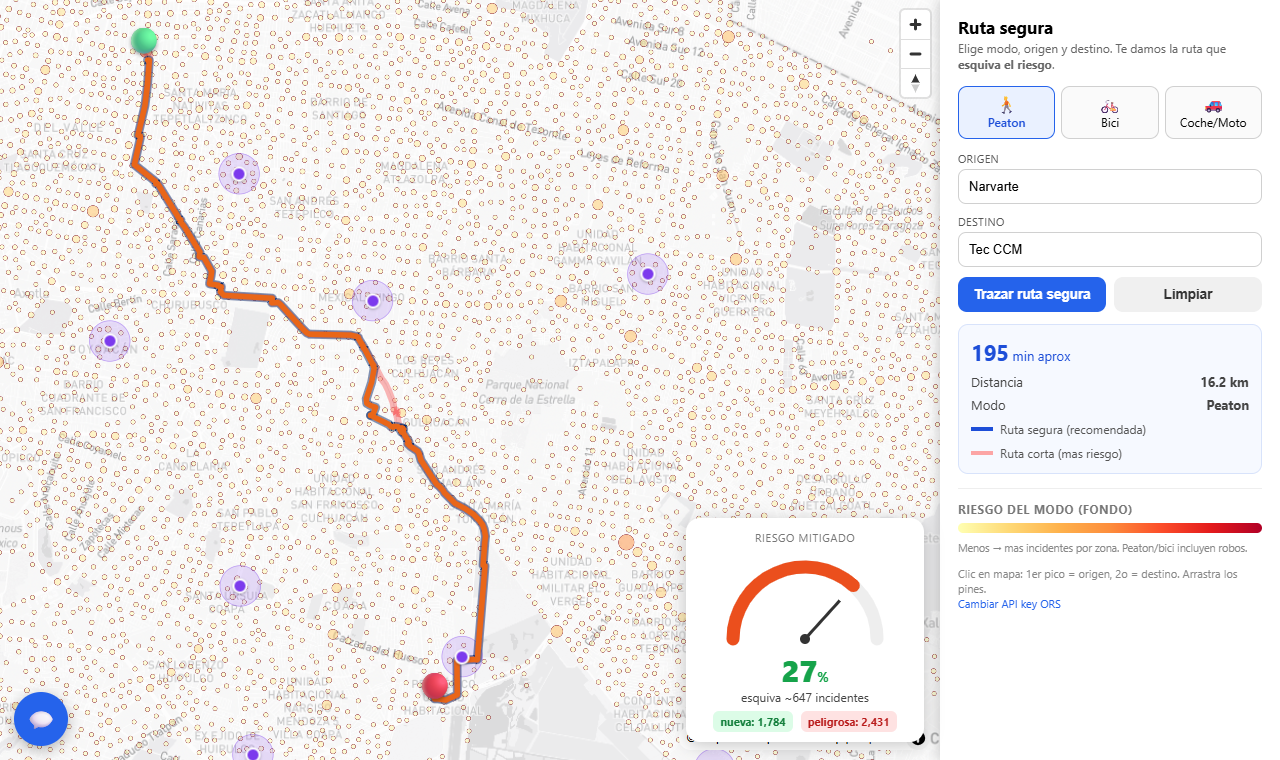
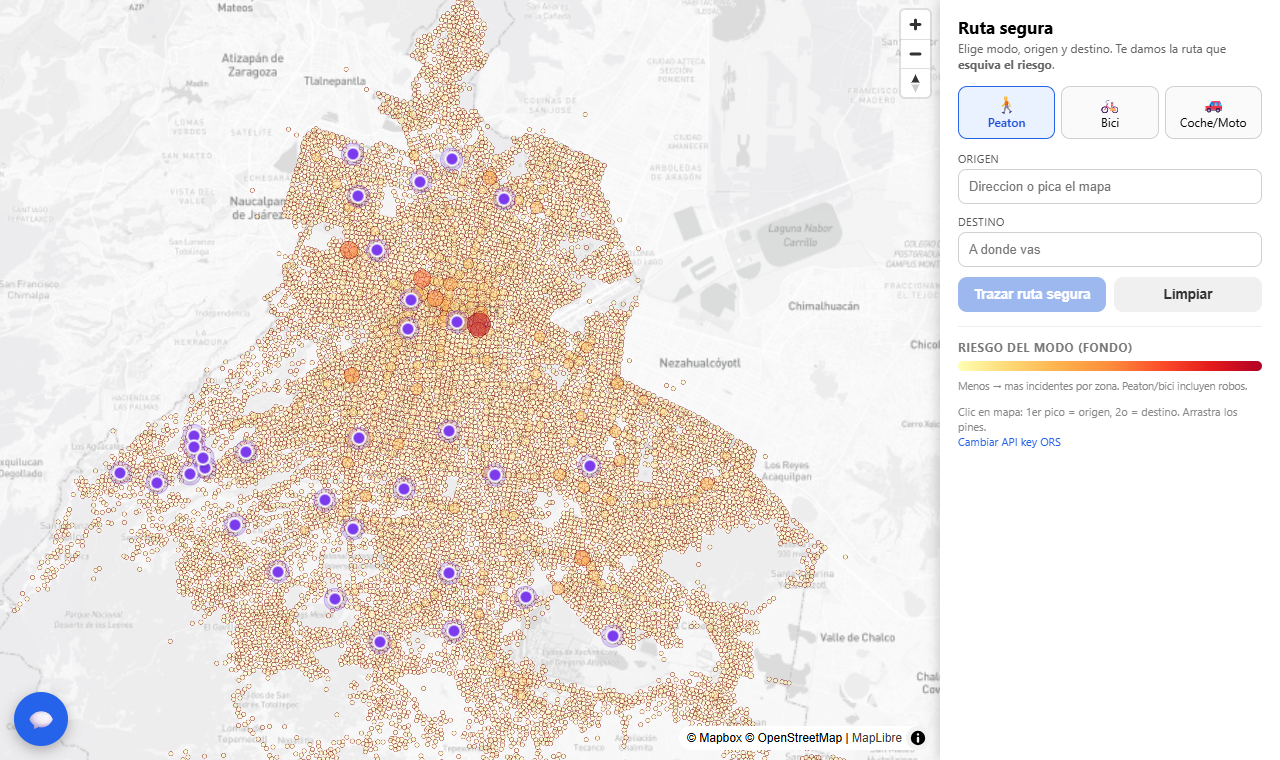
README: 3er screenshot = motor sobre toda la CDMX (vista completa de riesgo)

diff --git a/README.md b/README.md
@@ -28,13 +28,13 @@ los datos crudos y producen las cifras, las burbujas de riesgo y los GeoJSON.
 
 ![Demo app](docs/screenshots/demo-app.png)
 
-**Motor de ruta segura** — eliges modo, origen y destino; traza la más corta vs.
-la **recomendada** (esquiva accidentes y robos) y mide el % de riesgo mitigado
+**Motor de ruta segura — toda la CDMX** — la capa de riesgo (accidentes + robos)
+de toda la ciudad bajo el motor; eliges modo, origen y destino
 
-![Motor de ruta](docs/screenshots/motor-ruta.png)
+![Motor de ruta sobre toda la CDMX](docs/screenshots/motor-ruta.png)
 
-**Otro viaje** — el mismo motor en otra ruta: esquiva ~2,143 incidentes y mitiga
-el **52% del riesgo** (peatón, 7.2 km)
+**En acción** — el motor traza un viaje: la más corta (roja, más riesgo) vs. la
+**recomendada**, esquiva ~2,143 incidentes y mitiga el **52% del riesgo** (7.2 km)
 
 ![Motor de ruta — otro ejemplo](docs/screenshots/motor-ruta-2.png)
 